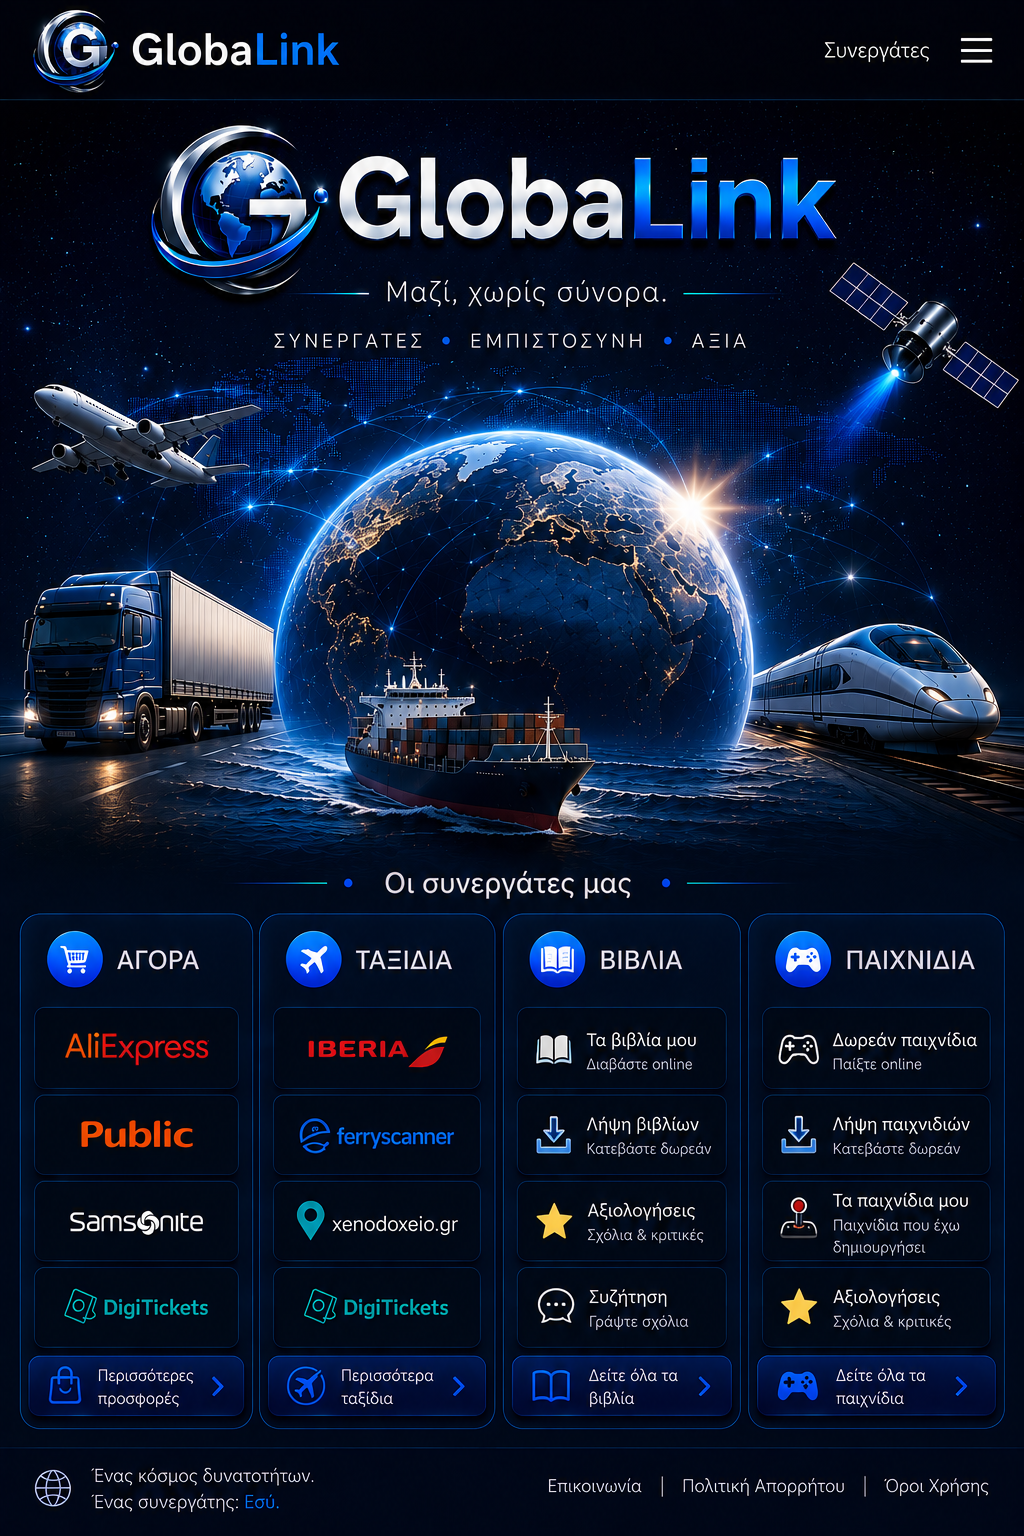
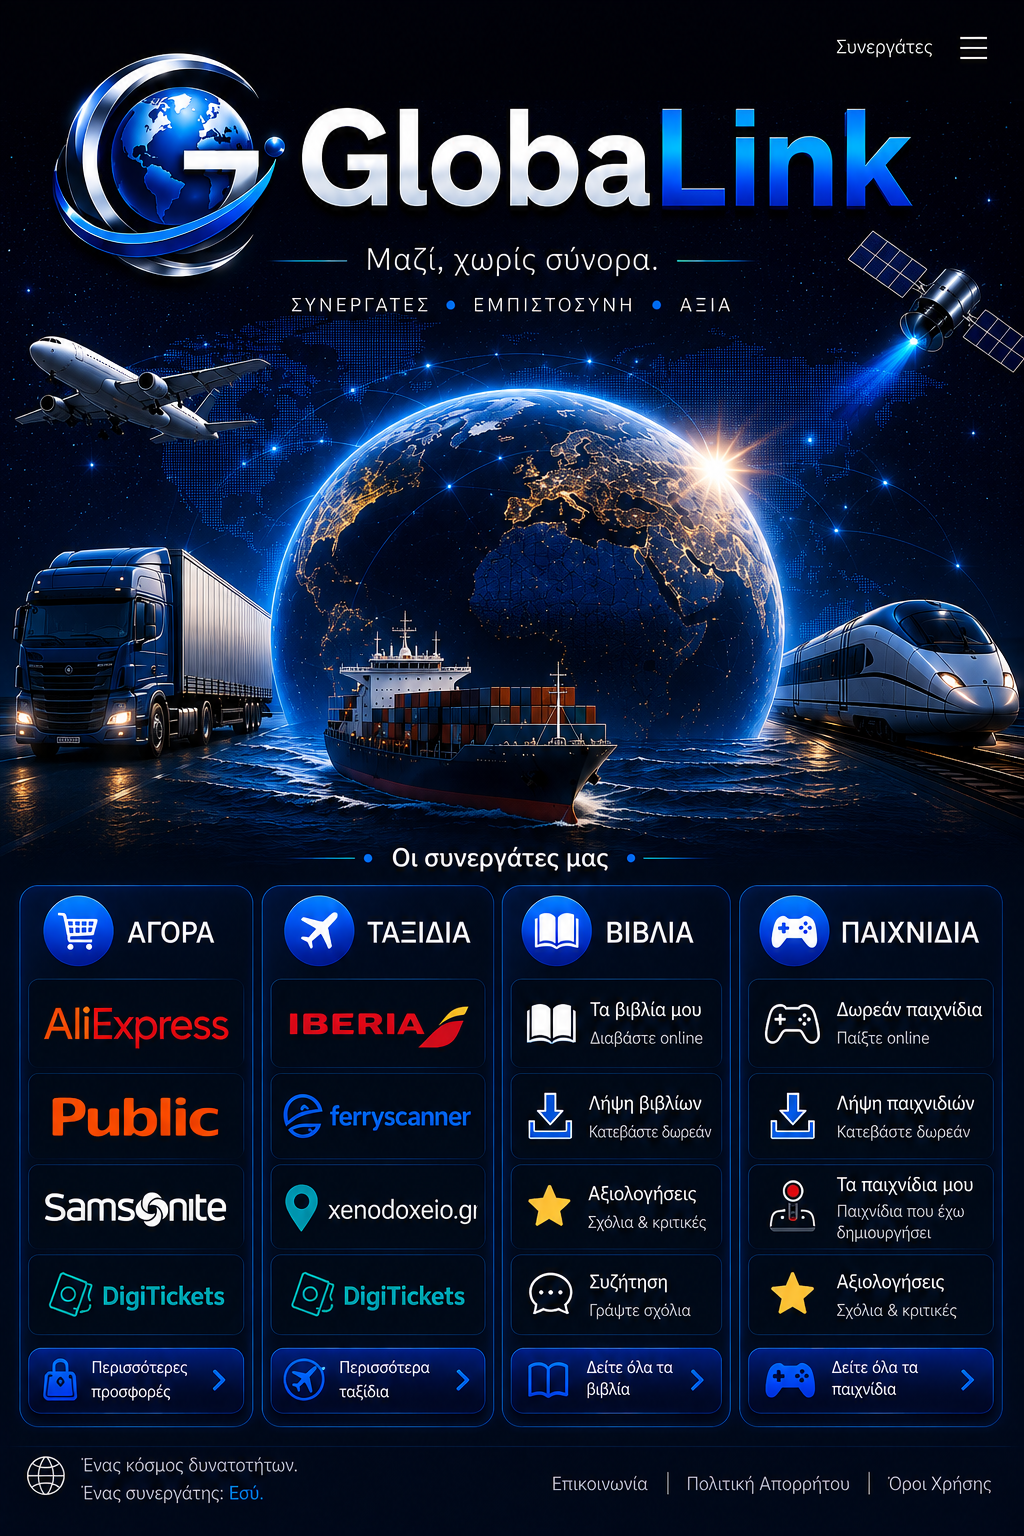
Μεγαλύτερα λογότυπα GlobalLink

diff --git a/index.html b/index.html
@@ -1,120 +1,48 @@
-<!doctype html>
+<!DOCTYPE html>
 <html lang="el">
 <head>
-  <meta charset="utf-8">
+  <meta charset="UTF-8">
   <meta name="viewport" content="width=device-width, initial-scale=1, viewport-fit=cover">
-  <meta name="theme-color" content="#020817">
-  <meta name="description" content="GlobalLink — αγορά, ταξίδια, βιβλία και παιχνίδια.">
+  <meta name="theme-color" content="#020816">
   <title>GlobalLink</title>
   <style>
-    :root { color-scheme: dark; }
-    * { box-sizing: border-box; }
-    html { scroll-behavior: smooth; background: #020817; }
+    * {
+      box-sizing: border-box;
+    }
+
+    html,
     body {
       margin: 0;
-      min-width: 320px;
-      background: #020817;
-      font-family: Arial, sans-serif;
+      padding: 0;
+      width: 100%;
+      min-height: 100%;
+      background: #020816;
+    }
+
+    body {
       overflow-x: hidden;
     }
-    .site {
-      position: relative;
+
+    main {
       width: 100%;
       max-width: 1024px;
       margin: 0 auto;
-      background: #020817;
       line-height: 0;
+      background: #020816;
     }
-    .site-image {
+
+    img {
       display: block;
       width: 100%;
       height: auto;
-      user-select: none;
-      -webkit-user-drag: none;
-    }
-    .hotspot {
-      position: absolute;
-      display: block;
-      border: 0;
+      margin: 0;
       padding: 0;
-      background: transparent;
-      cursor: pointer;
-      -webkit-tap-highlight-color: transparent;
-    }
-    .hotspot:focus-visible {
-      outline: 3px solid #30a8ff;
-      outline-offset: 2px;
-      border-radius: 14px;
-    }
-    .partners { left: 79.5%; top: 1.4%; width: 13%; height: 3.2%; }
-    .shopping { left: 2%; top: 60.4%; width: 22.7%; height: 32.5%; }
-    .travel { left: 25.3%; top: 60.4%; width: 22.8%; height: 32.5%; }
-    .books { left: 49%; top: 60.4%; width: 22.8%; height: 32.5%; }
-    .games { left: 73%; top: 60.4%; width: 24.6%; height: 32.5%; }
-
-    dialog {
-      width: min(90vw, 420px);
-      border: 1px solid #1678ff;
-      border-radius: 18px;
-      padding: 22px;
-      color: #fff;
-      background: #06162f;
-      box-shadow: 0 20px 60px rgba(0,0,0,.65);
-      line-height: 1.45;
-      text-align: center;
-    }
-    dialog::backdrop { background: rgba(0, 4, 15, .78); }
-    dialog h2 { margin: 0 0 10px; font-size: 1.35rem; }
-    dialog p { margin: 0 0 18px; color: #d5e8ff; }
-    dialog button {
-      min-width: 130px;
-      border: 1px solid #2691ff;
-      border-radius: 12px;
-      padding: 11px 18px;
-      color: #fff;
-      background: #0754d8;
-      font-size: 1rem;
-    }
-    @media (min-width: 1025px) {
-      body { background: radial-gradient(circle at top, #082963, #020817 55%); }
-      .site { box-shadow: 0 0 70px rgba(0, 119, 255, .22); }
     }
   </style>
 </head>
 <body>
-  <main class="site" id="partners">
-    <img class="site-image" src="globalink-home.png" alt="Η αρχική σελίδα GlobalLink με τις ενότητες Αγορά, Ταξίδια, Βιβλία και Παιχνίδια">
-
-    <a class="hotspot partners" href="#partners" aria-label="Οι συνεργάτες μας"></a>
-    <button class="hotspot shopping" type="button" aria-label="Αγορά" data-title="Αγορά" data-text="Εδώ θα προστεθούν οι συνεργάτες και οι προσφορές αγορών."></button>
-    <button class="hotspot travel" type="button" aria-label="Ταξίδια" data-title="Ταξίδια" data-text="Εδώ θα προστεθούν οι ταξιδιωτικοί συνεργάτες και οι προσφορές."></button>
-    <button class="hotspot books" type="button" aria-label="Βιβλία" data-title="Βιβλία" data-text="Εδώ θα ανεβάζεις τα δικά σου βιβλία για ανάγνωση ή λήψη."></button>
-    <button class="hotspot games" type="button" aria-label="Παιχνίδια" data-title="Παιχνίδια" data-text="Εδώ θα ανεβάζεις τα δικά σου παιχνίδια για χρήση ή λήψη."></button>
+  <main>
+    <img src="globalink-home.png" alt="GlobalLink">
   </main>
-
-  <dialog id="messageDialog">
-    <h2 id="dialogTitle"></h2>
-    <p id="dialogText"></p>
-    <button id="closeDialog" type="button">Κλείσιμο</button>
-  </dialog>
-
-  <script>
-    const dialog = document.getElementById('messageDialog');
-    const title = document.getElementById('dialogTitle');
-    const text = document.getElementById('dialogText');
-
-    document.querySelectorAll('[data-title]').forEach((button) => {
-      button.addEventListener('click', () => {
-        title.textContent = button.dataset.title;
-        text.textContent = button.dataset.text;
-        dialog.showModal();
-      });
-    });
-
-    document.getElementById('closeDialog').addEventListener('click', () => dialog.close());
-    dialog.addEventListener('click', (event) => {
-      if (event.target === dialog) dialog.close();
-    });
-  </script>
 </body>
 </html>
